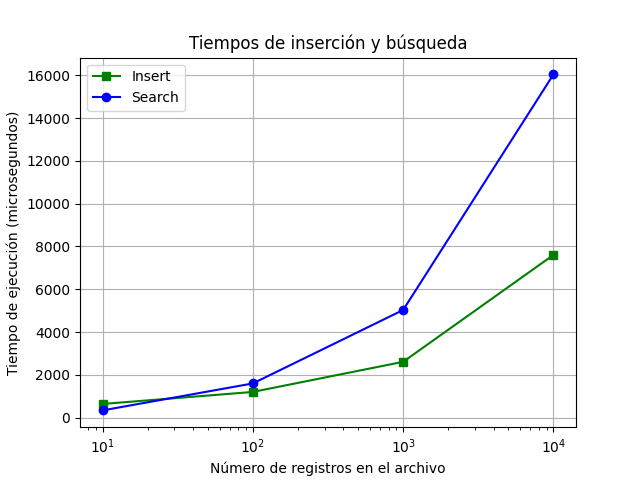
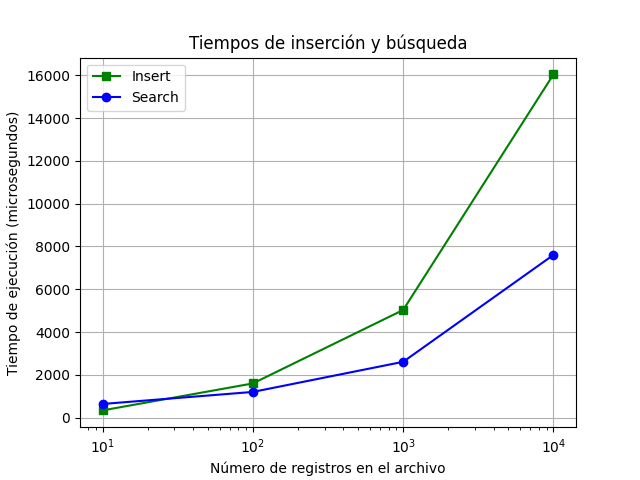
readme update 6

diff --git a/times.py b/times.py
@@ -5,13 +5,13 @@ import numpy as np
 # Insertion [358, 373, 2610, 383]
 # Search [340, 261, 390, 402]
 
-# Sequential file (Insertion)
-x1 = np.array([10, 100, 1000, 10000])
-y1 = np.array([640, 1203, 2610, 7605])
-
 # Sequential file (Search)
+x1 = np.array([10, 100, 1000, 10000])
+y1 = np.array([340, 1600, 5032, 16039])
+
+# Sequential file (Insertion)
 x2 = np.array([10, 100, 1000, 10000])
-y2 = np.array([340, 1600, 5032, 16039])
+y2 = np.array([640, 1203, 2610, 7605])
 
 plt.xscale("log")
 
